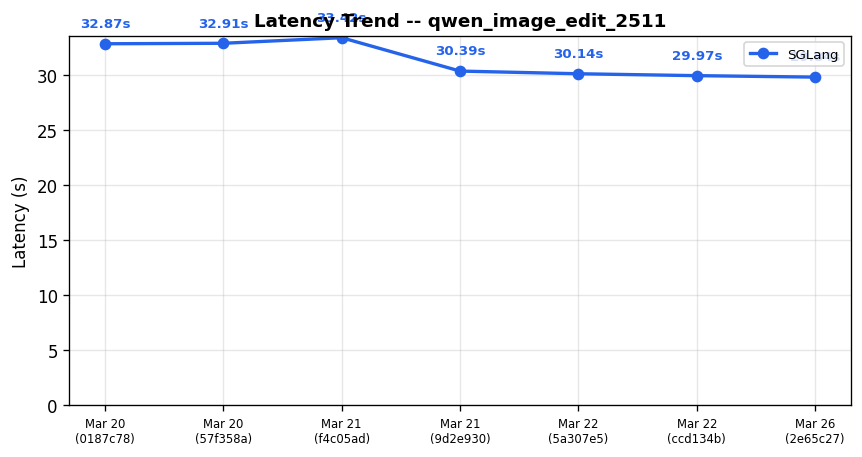
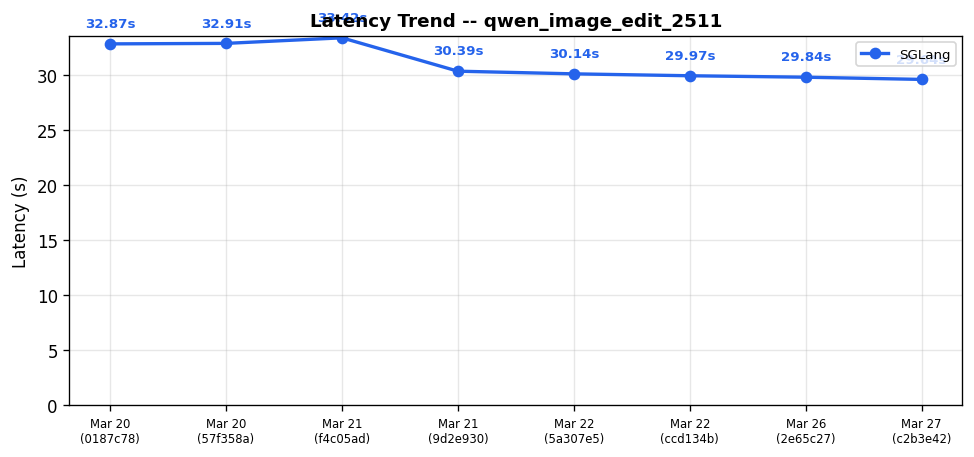
Diffusion comparison results for run 23625349472 (#527)

diff --git a/diffusion-comparisons/dashboard.md b/diffusion-comparisons/dashboard.md
@@ -1,32 +1,32 @@
 # Diffusion Cross-Framework Performance Dashboard
 
-*Generated: Mar 26 | Commit: `2e65c27`*
+*Generated: Mar 27 | Commit: `c2b3e42`*
 
 ## Cross-Framework Performance Comparison
 
 | Model | Risk | sglang (s) |
 |-------|------|---------|
-| FLUX.1-dev | ✅ | **6.77** |
-| FLUX.2-dev | ✅ | **22.75** |
-| Qwen-Image-2512 | ✅ | **13.31** |
-| Qwen-Image-Edit-2511 | ✅ | **29.84** |
-| Z-Image-Turbo | ✅ | **0.94** |
-| Wan2.2-T2V-A14B-Diffusers | ✅ | **16.06** |
-| Wan2.2-TI2V-5B-Diffusers | ✅ | **62.23** |
+| FLUX.1-dev | ✅ | **6.70** |
+| FLUX.2-dev | ✅ | **22.94** |
+| Qwen-Image-2512 | ✅ | **13.18** |
+| Qwen-Image-Edit-2511 | ✅ | **29.64** |
+| Z-Image-Turbo | ✅ | **0.93** |
+| Wan2.2-T2V-A14B-Diffusers | ✅ | **16.11** |
+| Wan2.2-TI2V-5B-Diffusers | ✅ | **62.21** |
 | Wan2.2-I2V-A14B-Diffusers | ✅ | **10.04** |
 
 ## SGLang Performance Trend (Last 7 Runs)
 
 | Date | Commit | flux1_dev_t2i_1024 (s) | flux2_dev_t2i_1024 (s) | qwen_image_2512_t2i_1024 (s) | qwen_image_edit_2511 (s) | zimage_turbo_t2i_1024 (s) | wan22_t2v_a14b_720p (s) | wan22_ti2v_5b_720p (s) | wan22_i2v_a14b_720p (s) | Trend |
 |------|--------|---------|---------|---------|---------|---------|---------|---------|---------|-------|
+| Mar 27 | `c2b3e42` | 6.70 | 22.94 | 13.18 | 29.64 | 0.93 | 16.11 | 62.21 | 10.04 | :left_right_arrow:  :left_right_arrow:  :left_right_arrow:  :left_right_arrow:  :left_right_arrow:  :left_right_arrow:  :left_right_arrow:  :left_right_arrow: |
 | Mar 26 | `2e65c27` | 6.77 | 22.75 | 13.31 | 29.84 | 0.94 | 16.06 | 62.23 | 10.04 | :left_right_arrow:  :left_right_arrow:  :arrow_down:  :left_right_arrow:  :arrow_down:  :left_right_arrow:  :left_right_arrow:  :left_right_arrow: |
 | Mar 22 | `ccd134b` | 6.69 | 22.58 | 13.58 | 29.97 | 1.96 | 16.10 | 62.17 | 10.04 | :left_right_arrow:  :left_right_arrow:  :arrow_down:  :left_right_arrow:  :arrow_down:  :left_right_arrow:  :left_right_arrow:  :left_right_arrow: |
 | Mar 22 | `5a307e5` | 6.70 | 22.62 | 14.09 | 30.14 | 2.01 | 16.13 | 62.20 | 10.04 | :left_right_arrow:  :left_right_arrow:  :arrow_up:  :left_right_arrow:  :arrow_up:  :left_right_arrow:  :left_right_arrow:  :arrow_up: |
 | Mar 21 | `9d2e930` | 6.77 | 22.77 | 13.71 | 30.39 | 1.93 | 16.14 | 62.15 | 9.03 | :arrow_down:  :arrow_down:  :arrow_down:  :arrow_down:  :arrow_down:  :arrow_down:  :arrow_down:  :arrow_down: |
 | Mar 21 | `f4c05ad` | 7.25 | 23.89 | 14.66 | 33.42 | 2.04 | 19.25 | 70.19 | 10.04 | :left_right_arrow:  :left_right_arrow:  :arrow_down:  :left_right_arrow:  :arrow_down:    :left_right_arrow: |
 | Mar 20 | `57f358a` | 7.13 | 24.05 | 17.18 | 32.91 | 2.33 | N/A | N/A | 10.04 | :left_right_arrow:   :left_right_arrow:  :left_right_arrow:  :left_right_arrow:    |
-| Mar 20 | `0187c78` | 7.12 | N/A | 17.39 | 32.87 | 2.30 | N/A | N/A | N/A |     :left_right_arrow:    |
-| Mar 20 | `479be52` | N/A | N/A | N/A | N/A | 2.31 | 17.44 | N/A | N/A | -- |
+| Mar 20 | `0187c78` | 7.12 | N/A | 17.39 | 32.87 | 2.30 | N/A | N/A | N/A | -- |
 
 ### Latency Trend: flux1_dev_t2i_1024
 
